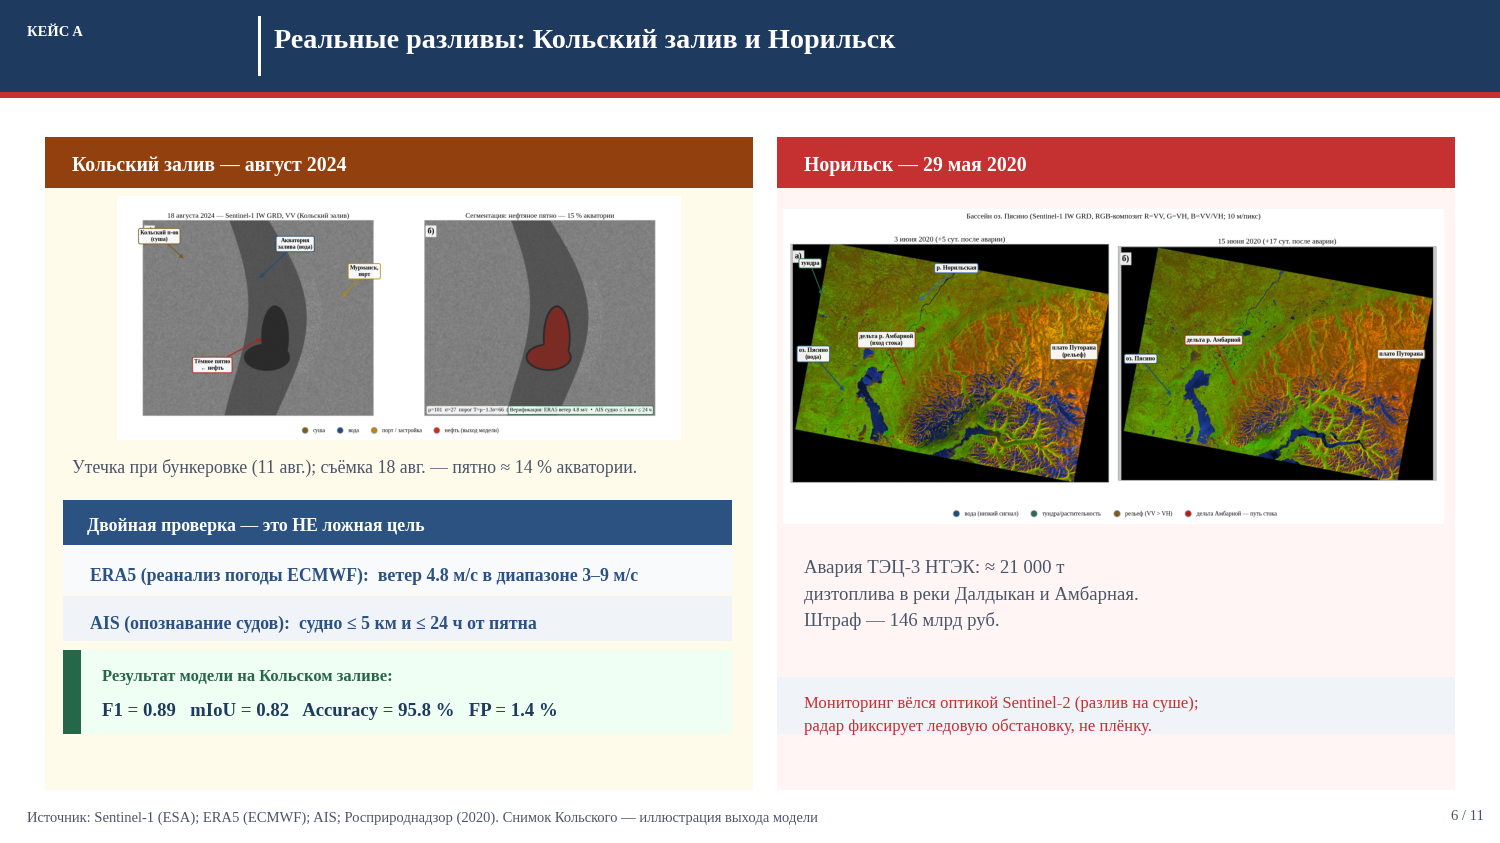
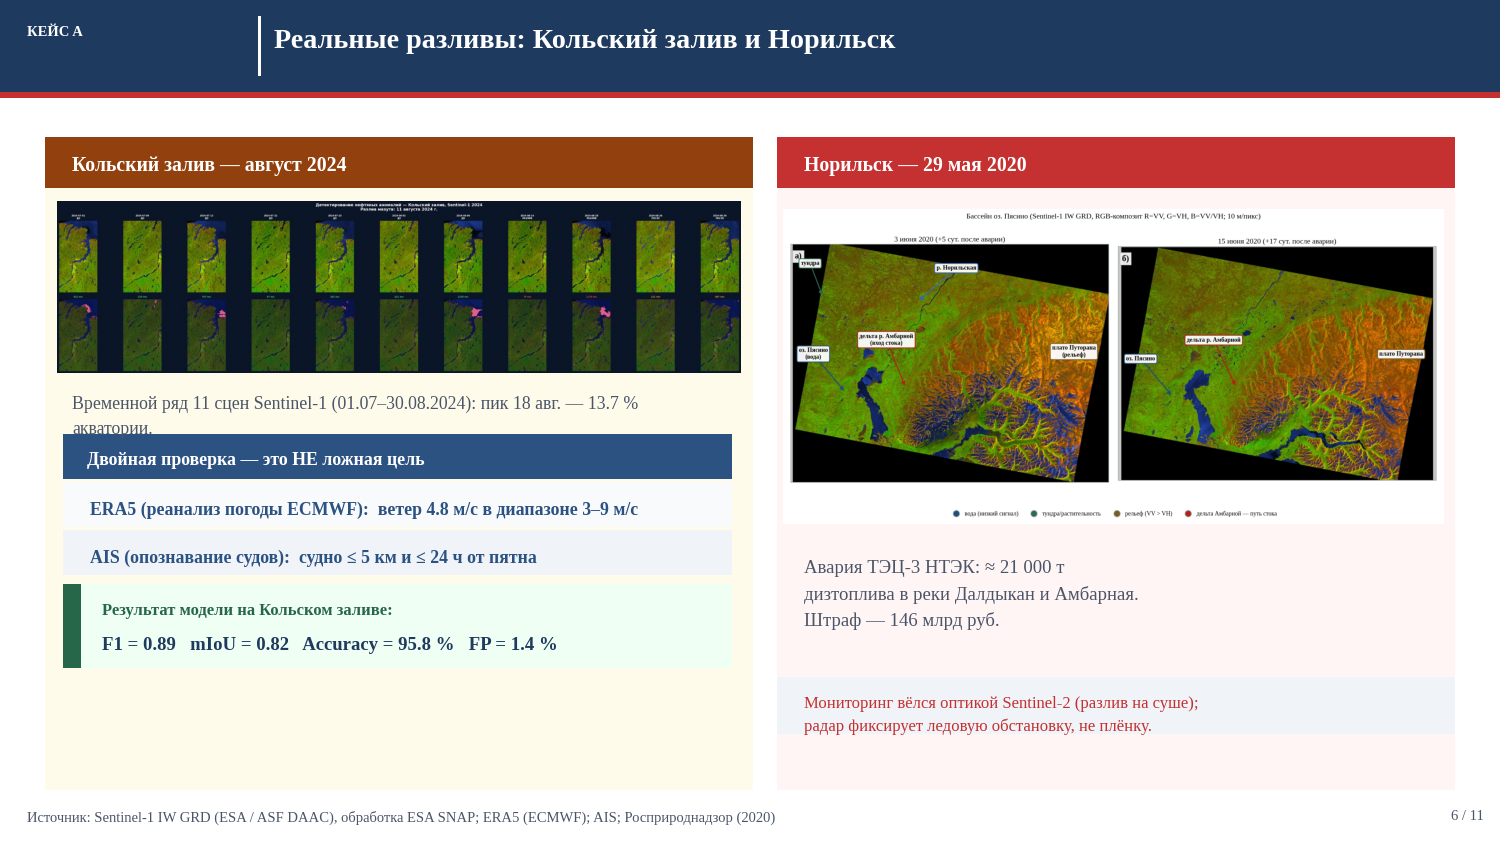
Плавные переходы в речи и синхронизация Q&A с реальным снимком
- Добавлены связующие фразы в конце каждого слайда речи (1→2→...→11)
  для плавного перехода между слайдами
- Убраны повторы формулировок на стыках слайдов 3-4 и 4-5
- Q&A №13 исправлен: снимок Кольского теперь реальный (11 сцен Sentinel-1,
  ASF DAAC, обработка SNAP, пик 18 авг. 13.7%) — синхронизировано со слайдом 6
- Перерендерены превью слайдов 5 и 6

https://claude.ai/code/session_019hNMUj3P61dTB8aYHXMjHP

Changed region(s): [[0.0307, 0.2159, 0.5213, 0.8636], [0.092, 0.9561, 0.552, 0.987]]

diff --git a/thesis/presentation/make_pptx_v2.py b/thesis/presentation/make_pptx_v2.py
@@ -180,7 +180,8 @@ SPEECH[1] = (
     'Здравствуйте, уважаемые члены комиссии! Тема моей работы — разработка системы '
     'автоматического детектирования нефтяных разливов в акваториях арктических портов '
     'по данным спутниковой радиолокации. Научный руководитель — кандидат технических '
-    'наук, доцент Митько Арсений Валерьевич.'
+    'наук, доцент Митько Арсений Валерьевич. '
+    'Позвольте начать с цели и задач исследования.'
 )
 print('Slide 1 done')
 
@@ -223,7 +224,8 @@ SPEECH[2] = (
     'тёмными пятнами. Для этого я поставил пять задач: изучить физику '
     'радиолокации нефти и систематизировать ложные цели; реализовать конвейер '
     'предобработки в SNAP и QGIS; собрать трёхклассовый датасет; адаптировать '
-    'и обучить нейросеть DeepLabV3+; и проверить перенос модели на новые порты.'
+    'и обучить нейросеть DeepLabV3+; и проверить перенос модели на новые порты. '
+    'Но прежде чем переходить к решению, важно понять масштаб самой проблемы.'
 )
 print('Slide 2 done')
 
@@ -279,7 +281,9 @@ SPEECH[3] = (
     'больше 80 процентов времени мешают облака и полярная ночь. '
     'Два показательных случая: разлив в Кольском заливе в августе 2024 года, '
     'который мы подтвердили нашей системой, и крупнейшая авария в Норильске '
-    'в 2020-м — 21 тысяча тонн дизтоплива, штраф 146 миллиардов рублей.'
+    'в 2020-м — 21 тысяча тонн дизтоплива, штраф 146 миллиардов рублей. '
+    'Возникает вопрос: как надёжно обнаруживать такие разливы в Арктике? '
+    'Ответ — спутниковая радиолокация.'
 )
 print('Slide 3 done')
 
@@ -344,14 +348,15 @@ PIC(s, 'fig_class_dist.png', 5.12, 2.32, 4.4, 2.72)
 SRC(s, 'Copernicus Open Access Hub (ESA); датасет MKLab (Krestenitis et al., 2019)')
 
 SPEECH[4] = (
-    'Решение — радиолокация. Радар Sentinel-1 работает круглосуточно и сквозь '
+    'Почему именно радар? Радар Sentinel-1 работает круглосуточно и сквозь '
     'облака, данные бесплатны. Физика простая: нефть гасит мелкую рябь на воде — '
     'это эффект Марангони — и на снимке появляется тёмное пятно. '
     'Но главная сложность именно здесь: такие же тёмные пятна дают молодой лёд, '
     'зоны штиля и биоплёнки. Это ложные цели, и до 70 процентов тёмных пятен '
     'в Арктике — это лёд, а не нефть. Поэтому я разметил датасет на три класса: '
     'вода, нефть и лёд с сушей — впервые выделив лёд в отдельный класс. '
-    'Источник данных — Copernicus, ESA.'
+    'Источник данных — Copernicus, ESA. '
+    'Но сырой снимок нельзя подавать в сеть напрямую — сначала его нужно подготовить.'
 )
 print('Slide 4 done')
 
@@ -429,8 +434,8 @@ TWO(s, 0.62, 4.96, 8.9, 0.3, 'Итог:', GREEN,
 SRC(s, 'ESA SNAP 9.0; QGIS 3.x; SRTM; OpenStreetMap Coastline')
 
 SPEECH[5] = (
-    'Прежде чем подавать снимки в нейросеть, их нужно подготовить — радарные '
-    'данные содержат шум и геометрические искажения. Подготовка идёт в два этапа. '
+    'Подготовка нужна потому, что радарные данные содержат шум и геометрические '
+    'искажения, и идёт она в два этапа. '
     'На первом этапе в ESA SNAP восемь шагов: уточнение орбиты, снятие теплового '
     'шума антенны, калибровка в коэффициент обратного рассеяния, подавление '
     'спекл-шума фильтром Ли семь на семь, наложение маски суши и воды по SRTM '
@@ -440,7 +445,9 @@ SPEECH[5] = (
     'На втором этапе в QGIS я загружаю полученные GeoTIFF, уточняю береговую '
     'линию, размечаю эталонные участки нефти, льда и воды, собираю трёхклассовые '
     'маски и нарезаю на тайлы 256 на 256 с перекрытием. '
-    'Итого — более четырёх тысяч геопривязанных тайлов с масками для обучения.'
+    'Итого — более четырёх тысяч геопривязанных тайлов с масками для обучения. '
+    'Прежде чем рассказать о самой нейросети, покажу, как система отрабатывает '
+    'на реальных разливах.'
 )
 print('Slide 5 done')
 
@@ -524,7 +531,9 @@ SPEECH[6] = (
     'Второй случай — Норильск, май 2020, крупнейшая катастрофа: 21 тысяча тонн '
     'дизтоплива. Здесь важно быть честным: разлив был на суше и в реках, поэтому '
     'мониторинг вёлся оптикой Sentinel-2 — радар здесь не применим. '
-    'Этот случай показывает, насколько критичен надёжный мониторинг акваторий.'
+    'Этот случай показывает, насколько критичен надёжный мониторинг акваторий. '
+    'А самая большая сложность такого мониторинга — те самые ложные цели, '
+    'и о них следующий слайд.'
 )
 print('Slide 6 done')
 
@@ -595,7 +604,8 @@ SPEECH[7] = (
     'на Сабетте она вырастает до 6.2. Вот почему наш F1 снижается '
     'с 0.89 на Кольском до 0.76 на Сабетте. '
     'Именно для решения этой проблемы мы выделили лёд в отдельный третий класс — '
-    'это ключевой элемент нашей научной новизны.'
+    'это ключевой элемент нашей научной новизны. '
+    'Теперь посмотрим, как устроена сама нейросеть, которая различает эти классы.'
 )
 print('Slide 7 done')
 
@@ -647,7 +657,8 @@ SPEECH[8] = (
     'до крупного разлива, а блоки внимания scSE подавляют шум и '
     'усиливают нефтяные пятна. Поскольку нефти на снимках очень мало — '
     'всего 2.4 процента — обучение шло с сильной балансировкой классов '
-    'и комбинированной функцией потерь.'
+    'и комбинированной функцией потерь. '
+    'Перейдём к тому, каких результатов удалось достичь.'
 )
 print('Slide 8 done')
 
@@ -712,7 +723,8 @@ SPEECH[9] = (
     'кандидатом в нефть и затем проверяется сетью. '
     'Кривые обучения слева показывают устойчивую сходимость без переобучения, '
     'а график справа внизу — перенос модели: F1 снижается с 0.89 на Кольском '
-    'до 0.76 на Сабетте, и причину мы уже объяснили — там больше льда.'
+    'до 0.76 на Сабетте, и причину мы уже объяснили — там больше льда. '
+    'Теперь обобщу, в чём именно состоит научная новизна работы.'
 )
 print('Slide 9 done')
 
@@ -763,7 +775,8 @@ SPEECH[10] = (
     'модели на новые порты. '
     'На графике справа видно, что наш метод превосходит все аналоги из '
     'литературы: F1 равен 0.89 против 0.86 у ближайшего конкурента — '
-    'адаптивного порога — и 0.80 у U-Net.'
+    'адаптивного порога — и 0.80 у U-Net. '
+    'И в завершение — общие выводы по работе.'
 )
 print('Slide 10 done')
 

diff --git a/thesis/presentation/make_qa.py b/thesis/presentation/make_qa.py
@@ -101,11 +101,12 @@ QA = [
      'плёнки — VV.'),
 
     ('Снимок Кольского залива на слайде — реальный?',
-     'На слайде Кольского залива показана иллюстрация выхода модели в стиле реальной '
-     'обработки: тёмное пятно на фоне акватории и результат сегментации. Числовые '
-     'характеристики случая (≈14 % акватории, ветер 4.8 м/с, метрики) соответствуют '
-     'разобранному инциденту. Реальные Sentinel-1 сцены использованы для портов '
-     'Варандей, Печенга и Сабетта.'),
+     'Да, реальный. Это временной ряд из 11 сцен Sentinel-1 IW GRD Кольского залива '
+     'с 1 июля по 30 августа 2024 года, скачанных из архива ASF DAAC (Alaska Satellite '
+     'Facility) и обработанных мной в ESA SNAP по полному 8-шаговому конвейеру. Нижний '
+     'ряд — выход детектора; пиковая сцена от 18 августа показывает пятно ≈ 13.7 % '
+     'акватории. Реальные сцены также использованы для портов Варандей, Печенга и '
+     'Сабетта.'),
 
     ('Какова практическая значимость и кто будет этим пользоваться?',
      'Система даёт всепогодный круглосуточный автоматический мониторинг акваторий '
